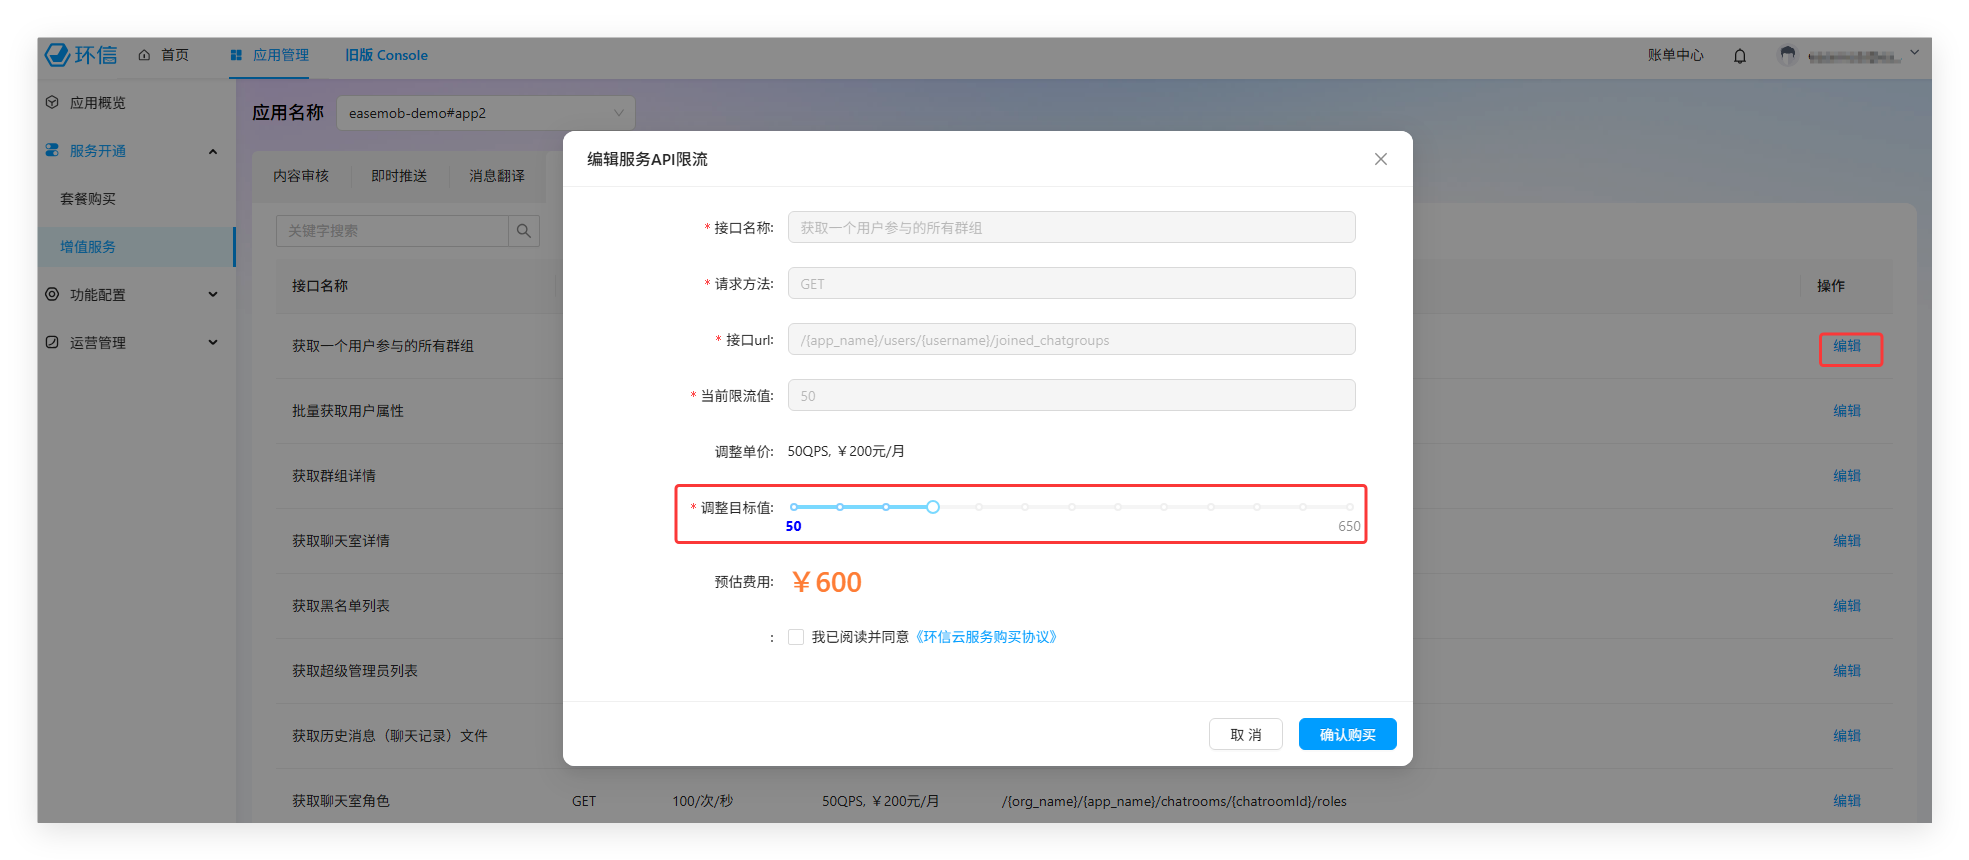
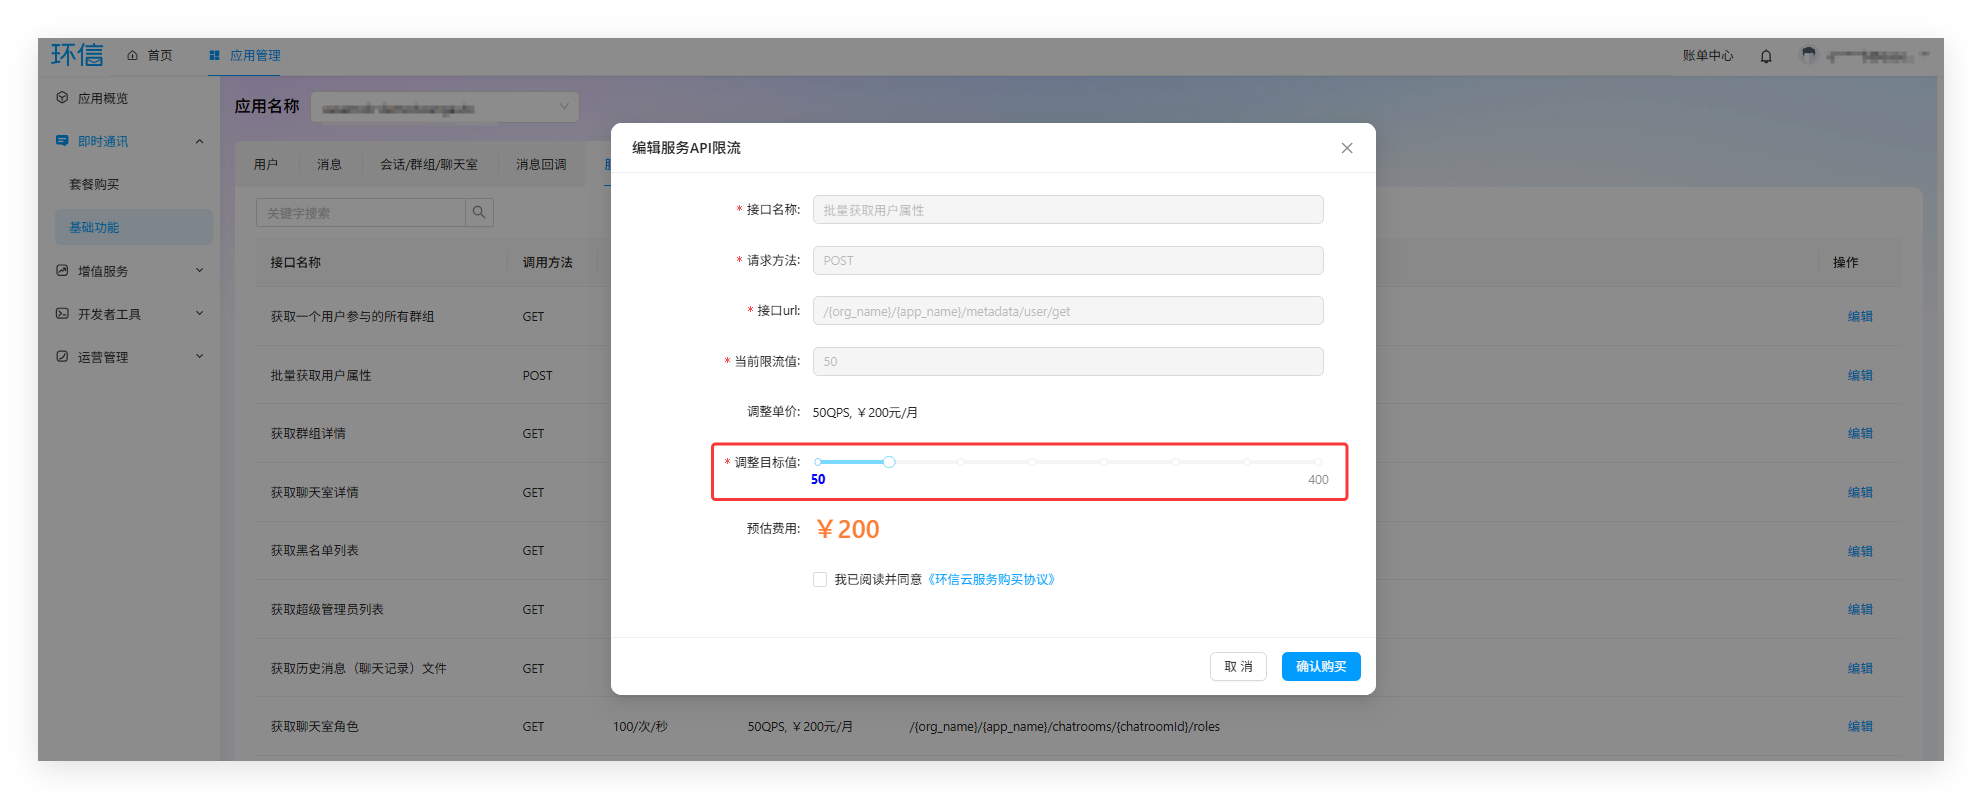
Modify Billing and Console Docs

diff --git a/docs/.vuepress/sidebar/index.ts b/docs/.vuepress/sidebar/index.ts
@@ -313,6 +313,7 @@ export const zhSidebar = sidebar({
              { text: "消息", link: "console/basic_message.html" },
              { text: "会话/群组/聊天室", link: "console/basic_conversation_group_chatroom.html" },
              { text: "消息回调", link: "console/basic_webhook.html" },
+             { text: "服务端 API 调用", link: "console/basic_restful_api_call.html" },
              { text: "其他", link: "console/basic_other.html" },
              ],
             },

diff --git a/docs/product/pricing_policy.md b/docs/product/pricing_policy.md
@@ -4,7 +4,7 @@
 
 :::tip
 
-- 自 2026 年 3 月 20 日起，在环信控制台开通付费套餐时，将默认使用新版计费模型。
+- 自 2026 年 3 月 20 日起，在 [环信控制台](https://console.easemob.com/user/login) 开通付费套餐时，将默认使用新版计费模型。
 - 若在 2026 年 3 月 20 日前开通旧付费套餐，现有应用仍沿用旧模型计费，不受影响。
 - 若贵公司与环信销售签约，实际计费信息以合同为准。
 :::
@@ -29,7 +29,7 @@
 | 计费项   | 计费方式    | 说明    |
 | :-------------- | :----- | :------- |
 |套餐内订阅费用 | 预付费   | 即时通信 IM 套餐包分为：<br/> - 免费版<br/> - 专业版<br/> - 旗舰版 |
-| 超出套餐费用 | 后付费   | 超出套餐包中额度的费用，即峰值日活跃用户数（DAU）| 
+| 超出套餐费用 | 后付费   | 超出套餐包中额度的费用，即峰值日活跃用户数（DAU）。| 
 | 扩展服务费用   | 预付费  | 购买专业版或旗舰版后，单独开通套餐之外的功能。每一项扩展功能都有独立的计费规则。扩展服务包括：<br/> - 单群聊消息云存储<br/> - 聊天室消息云存储<br/> - 群成员数上限<br/> - 用户在线状态订阅<br/> - 发送前回调<br/> - 消息表情回复<br/> - 回调异常缓存<br/> - 请求质量监控<br/> - 服务端 API 调用频率 |
 
 ### 套餐内订阅费用
@@ -66,13 +66,13 @@
 | :---- | :----- | :------- | :------ |:------------- |
 | 单群聊消息云存储 | 包含历史消息记录文件和漫游消息 | 预付费 | - 延长至 180 天：500 元/月<br/> - 延长至 360 天：1000 元/月<br/> - 延长至 720 天：2000 元/月  | - 延长至 180 天：250 元/月<br/> - 延长至 360 天：750 元/月<br/> - 延长至 720 天：1750 元/月 |              |
 | 聊天室消息云存储 | 包含历史消息记录文件和漫游消息 | 预付费 |  - 延长至 30 天：500 元/月<br/> - 延长至 60 天：1000 元/月<br/> - 延长至 90 天：1500 元/月  | - 延长至 30 天：500 元/月<br/> - 延长至 60 天：1000 元/月<br/> - 延长至 90 天：1500 元/月 | 
-| 群成员数上限 | 应用内每个群组的成员数上限 | 预付费 | 提升至 3000 人：500 元/月   | 提升至 8000 人：500 元/月 | 
-| 用户在线状态订阅    | 订阅和查询用户的在线状态（Presence）   | 预付费 | 1000 元/月  | 已包含     |
-| 发送前回调    | 环信服务器在下发消息前通知应用服务器，让其对消息进行处理（例如，内容审核）  | 预付费 | 1000 元/月  | 已包含     |
-| 消息表情回复    | 为消息添加表情，让互动更生动  | 预付费 | 600 元/月  | 已包含   |
+| [群成员数上限](/product/console/basic_conversation_group_chatroom.html#群组总数上限) | 应用内每个群组的成员数上限 | 预付费 | 提升至 3000 人：500 元/月   | 提升至 8000 人：500 元/月 | 
+| [用户在线状态订阅](/product/console/basic_user.html#用户离在线状态实时同步)    | 订阅和查询用户的在线状态（Presence）   | 预付费 | 1000 元/月  | 已包含     |
+| [发送前回调](/product/console/basic_webhook.html#发送前回调)    | 环信服务器在下发消息前通知应用服务器，让其对消息进行处理（例如，内容审核）  | 预付费 | 1000 元/月  | 已包含     |
+| [消息表情回复](/product/console/basic_message.html#消息表情回复)    | 为消息添加表情，让互动更生动  | 预付费 | 600 元/月  | 已包含   |
 | [回调异常缓存](/document/server-side/callback_postsending.html#查询回调存储详情) | 高保障回调 | 预付费 | 2000 元/月 | 2000 元/月|
 | [请求质量监控](/product/console/operation_troubleshooting_request_quality.html) | 提供全球范围内实时、细粒度的终端请求质量监控服务。 | 预付费 | 2000 元/月 | 2000 元/月|
-| 服务端 API 调用频率 | 提升服务端 RESTful API 的调用频率 | 预付费 | 详见 [RESTful API 调用频率限制](/document/server-side/limitationapi.html) | 详见 [RESTful API 调用频率限制](/document/server-side/limitationapi.html)|
+| [服务端 API 调用频率](/product/console/basic_restful_api_call.html) | 提升服务端 RESTful API 的调用频率 | 预付费 | 详见 [RESTful API 调用频率限制](/document/server-side/limitationapi.html) | 详见 [RESTful API 调用频率限制](/document/server-side/limitationapi.html)|
 
 ### 计费示例
 

diff --git a/docs/product/console/purchase_value_added.md b/docs/product/console/purchase_value_added.md
@@ -27,36 +27,18 @@
 
 在左侧导航栏，选择 **增值服务** > **内容审核**，你可以开通以下内容审核服务：
 
-- 开通基础内容审核服务需确保账户余额大于 288 元。首次开通，免费使用 7 天。
-- 开通关键词审核需确保账户余额大于 1000 元。
+- 开通基础内容审核服务需确保账户余额大于 500 元。首次开通，免费使用 7 天。
 - 对于免费版套餐包，若账户余额充足，也可付费开通内容审核和关键词审核服务。
 
 ![img](/images/console/content_moderation.png)
 
-### 基础审核服务
-  
-在 **基础服务** 区域，根据需要开通文本审核、图片审核、音频审核和视频审核服务。
+你可以根据需要开通文本审核、图片审核、音频审核和视频审核服务。
 
 开通后，你可以对内容审核服务进行配置，详见 [相关配置文档](/value-added/moderation/moderation_rule_config.html)。
 
 :::tip
 如果使用自定义消息的审核，需首先开通文本审核和图片审核，再联系商务开通自定义消息审核。
 :::
-
-### 增值服务
-
-在 **增值服务** 区域，可开通以下服务：
-
-1. 关键词审核：点击 **开通** 开通该服务。**注意开通该服务前，需先开通文本审核。**
-
-2. 消息举报：点击 **立即购买** 开通该服务。
-
-3. 群组/聊天室实时人工审核：可根据当前的套餐包版本开通该服务：
-
-  - 免费版：点击 **立即升级** 升级至专业版或旗舰版。
-  - 专业版/旗舰版：点击 **立即购买** 单独开通服务。
-
-功能开通后，你可以对群组和聊天室中的消息和操作进行实时管理审核，详见 [群组审核管理](operation_group.html#群组审核管理) 和 [聊天室审核管理](operation_chatroom.html#聊天室审核管理) 文档。
 
 ## 即时推送
 
@@ -75,18 +57,6 @@
 服务开通后，你可以查看消息翻译额度、总使用量以及指定时间段内每天的使用量。
 
 ![img](/images/console/translation_statistics.png)
-
-## 服务端 API 调用
-
-选择 **服务端API调用** 页签。若你使用免费版，需要点击 **立即升级** 升级至专业版或旗舰版。
-
-专业版和旗舰版默认开通该服务。
-
-![img](/images/console/server_api_activation.png)
-
-开通后，你可以点击指定接口的 **操作** 栏中的 **编辑**，在弹出的 **编辑服务API限流** 对话框中，上调接口的调用频率限制，阅读并同意《环信云服务购买协议》，然后点击 **确认购买**。
-
-![img](/images/console/server_api_raiselimit.png)
 
 
 

diff --git a/docs/product/console/basic_restful_api_call.md b/docs/product/console/basic_restful_api_call.md
@@ -1,0 +1,11 @@
+# 服务端 API 调用
+
+选择 **服务端API调用** 页签。若你使用免费版，需要点击 **立即升级** 升级至专业版或旗舰版。
+
+专业版和旗舰版默认开通该服务。
+
+![img](/images/console/server_api_activation.png)
+
+开通后，你可以点击指定接口的 **操作** 栏中的 **编辑**，在弹出的 **编辑服务API限流** 对话框中，上调接口的调用频率限制，阅读并同意《环信云服务购买协议》，然后点击 **确认购买**。
+
+![img](/images/console/server_api_raiselimit.png)
